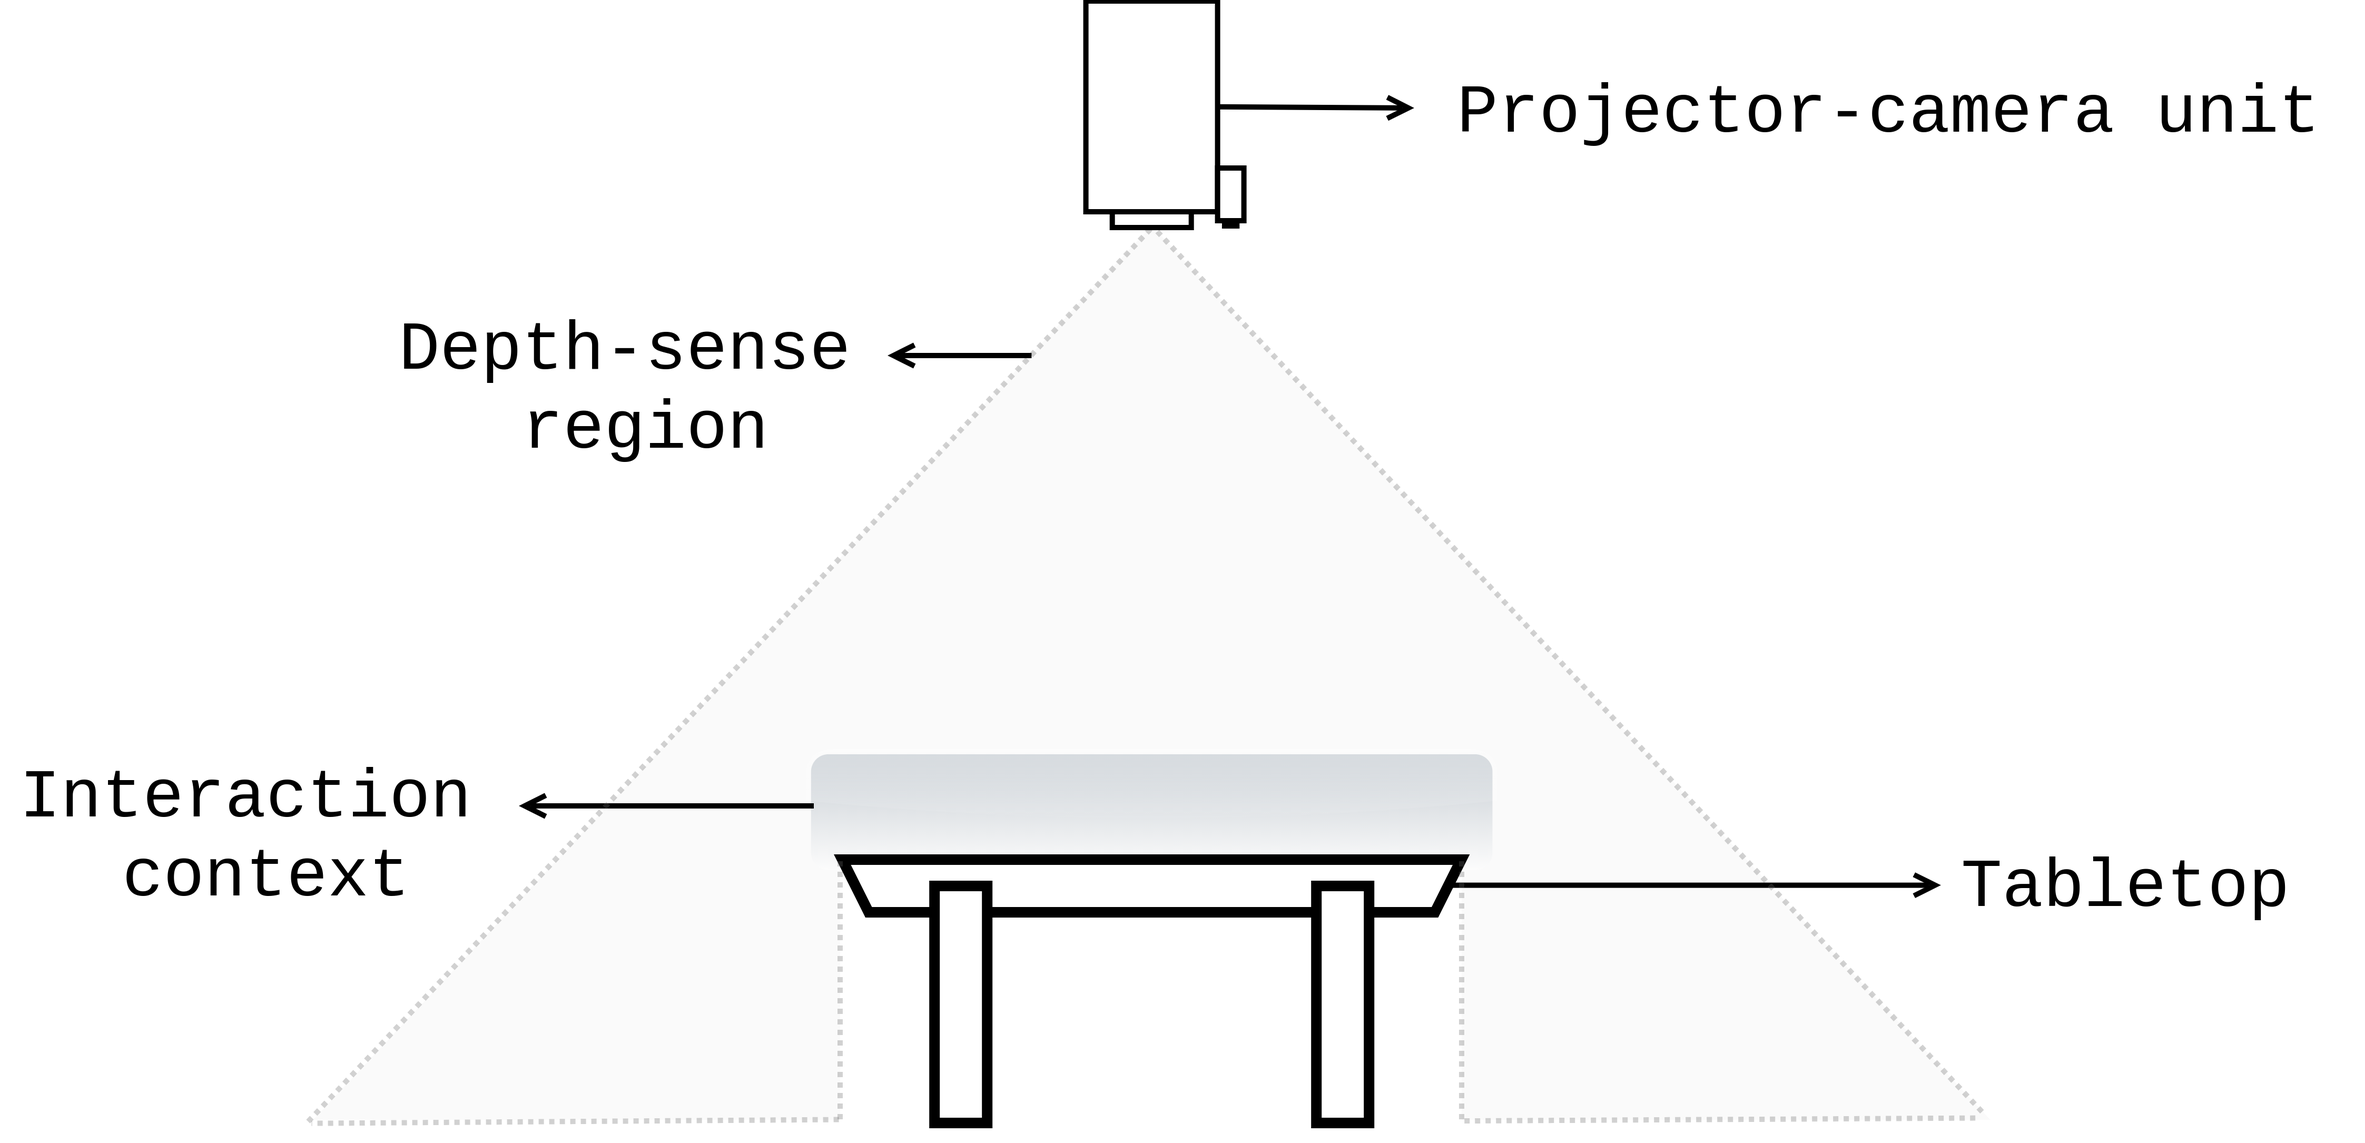
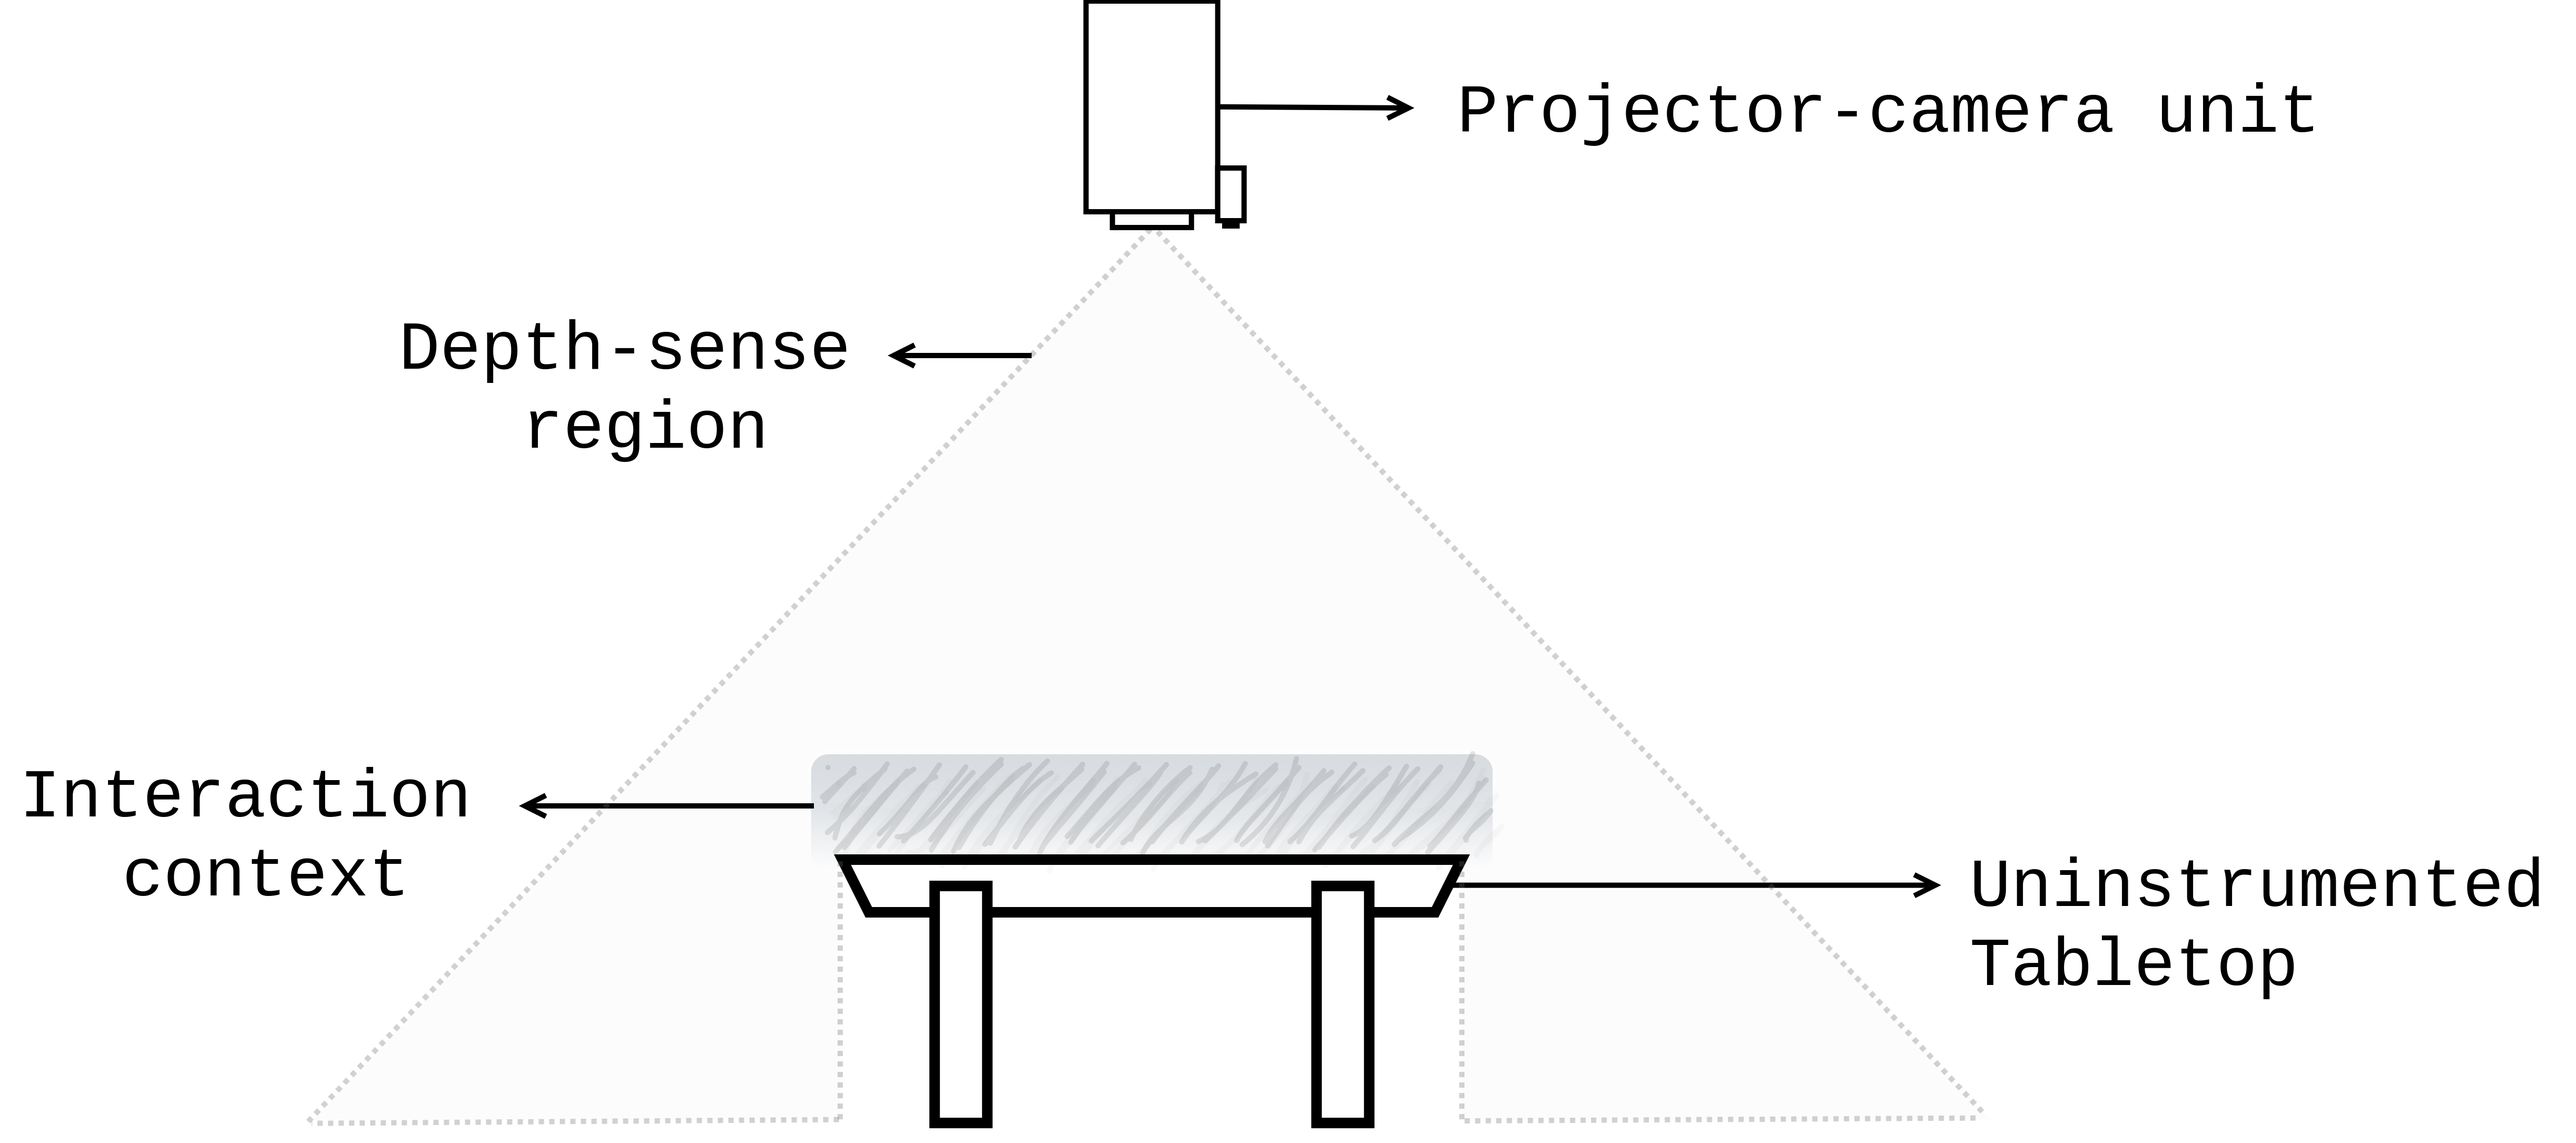
updating function doc

diff --git a/src/main.cpp b/src/main.cpp
@@ -37,17 +37,20 @@ int main(int argc, char* argv[])
 
     /** get point cloud */
     std::vector<Point> points;
-#if __linux__
-    points = getKinectImage();
-#elif __APPLE__
-    points = plyFile();
-#endif
+
+    /** Iff on mac, emulate kinect using file resource */
+    #if __linux__
+        points = getKinectImage();
+    #elif __APPLE__
+        points = plyFile();
+    #endif
 
     /** segment tabletop interaction context */
     Timer timer;
     std::vector<Point> context = segment::cut(points);
-    LOG(INFO) << "tabletop interaction context segmented in: "
-              << timer.getDuration() << " ms";
+    LOG(INFO) << "Interaction context segmented in: " << timer.getDuration() << " ms";
+
+    /** write point cloud to ./output/context.ply file */
     io::ply(context);
     return PASS;
 }

diff --git a/doc/README.md b/doc/README.md
@@ -1,0 +1,3 @@
+![](https://github.com/edisonslightbulbs/INTACToolkit/blob/develop/doc/figures/pipeline.png)
+
+## DOC
